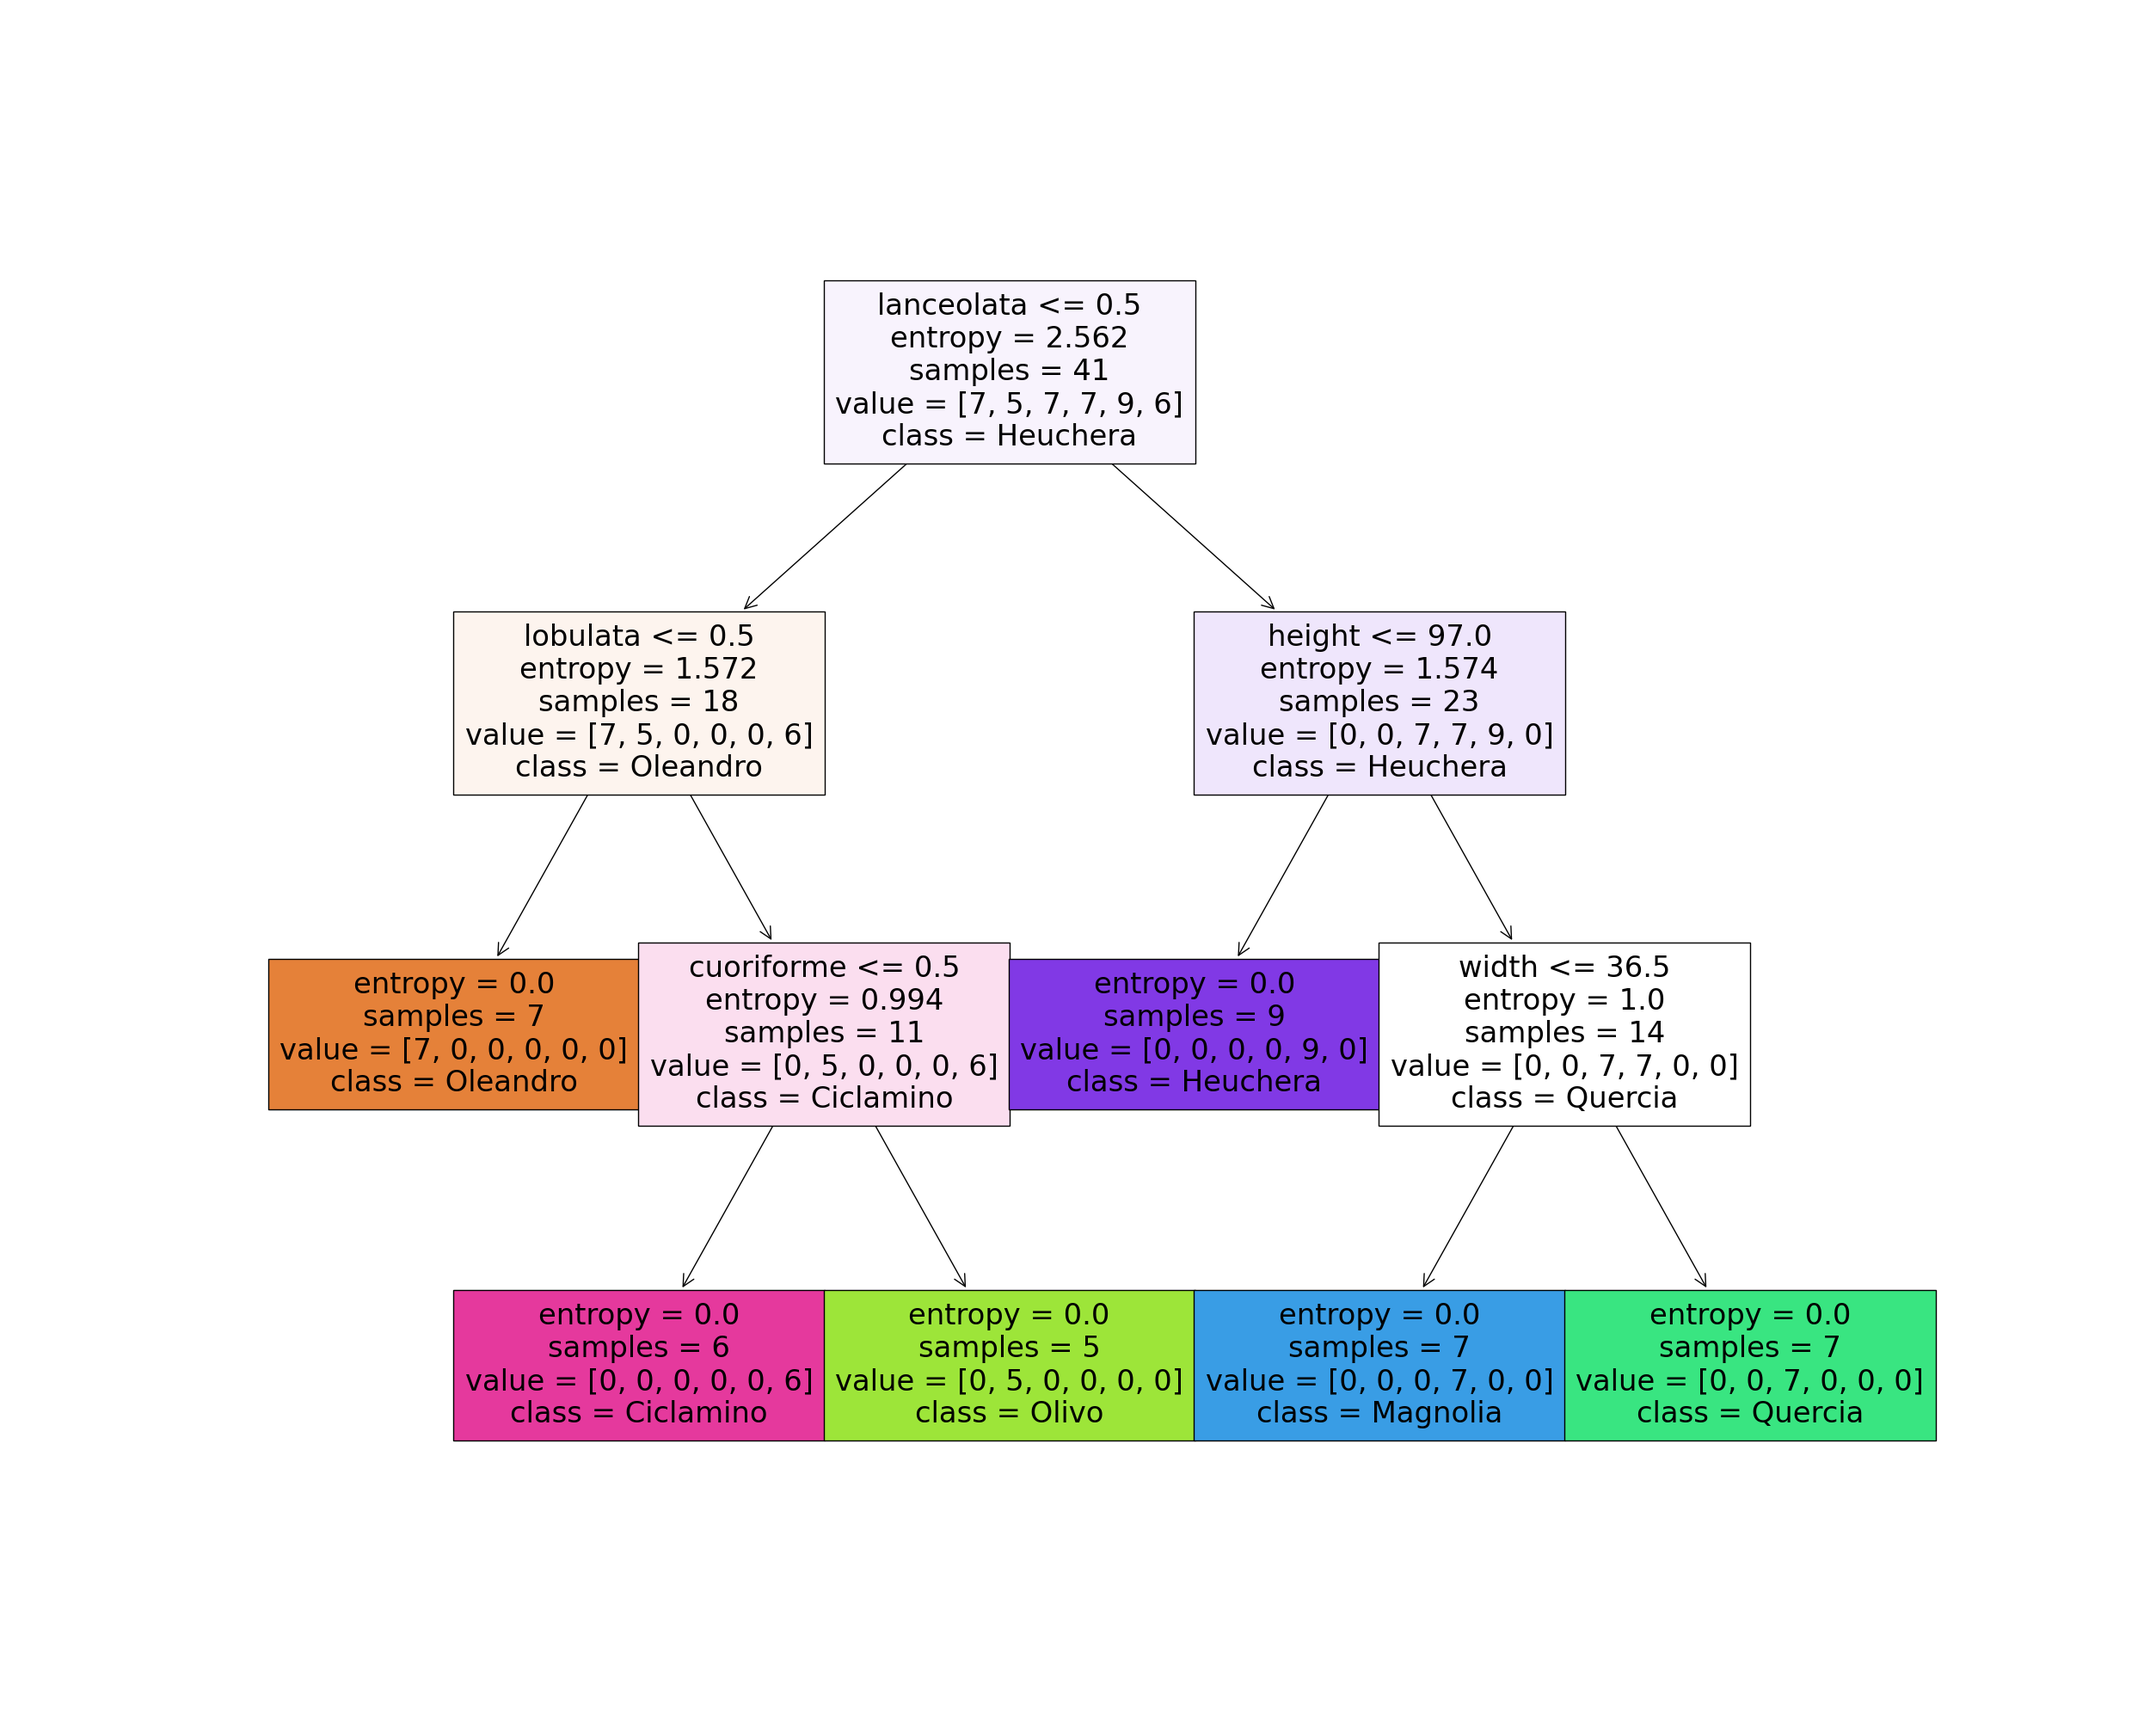
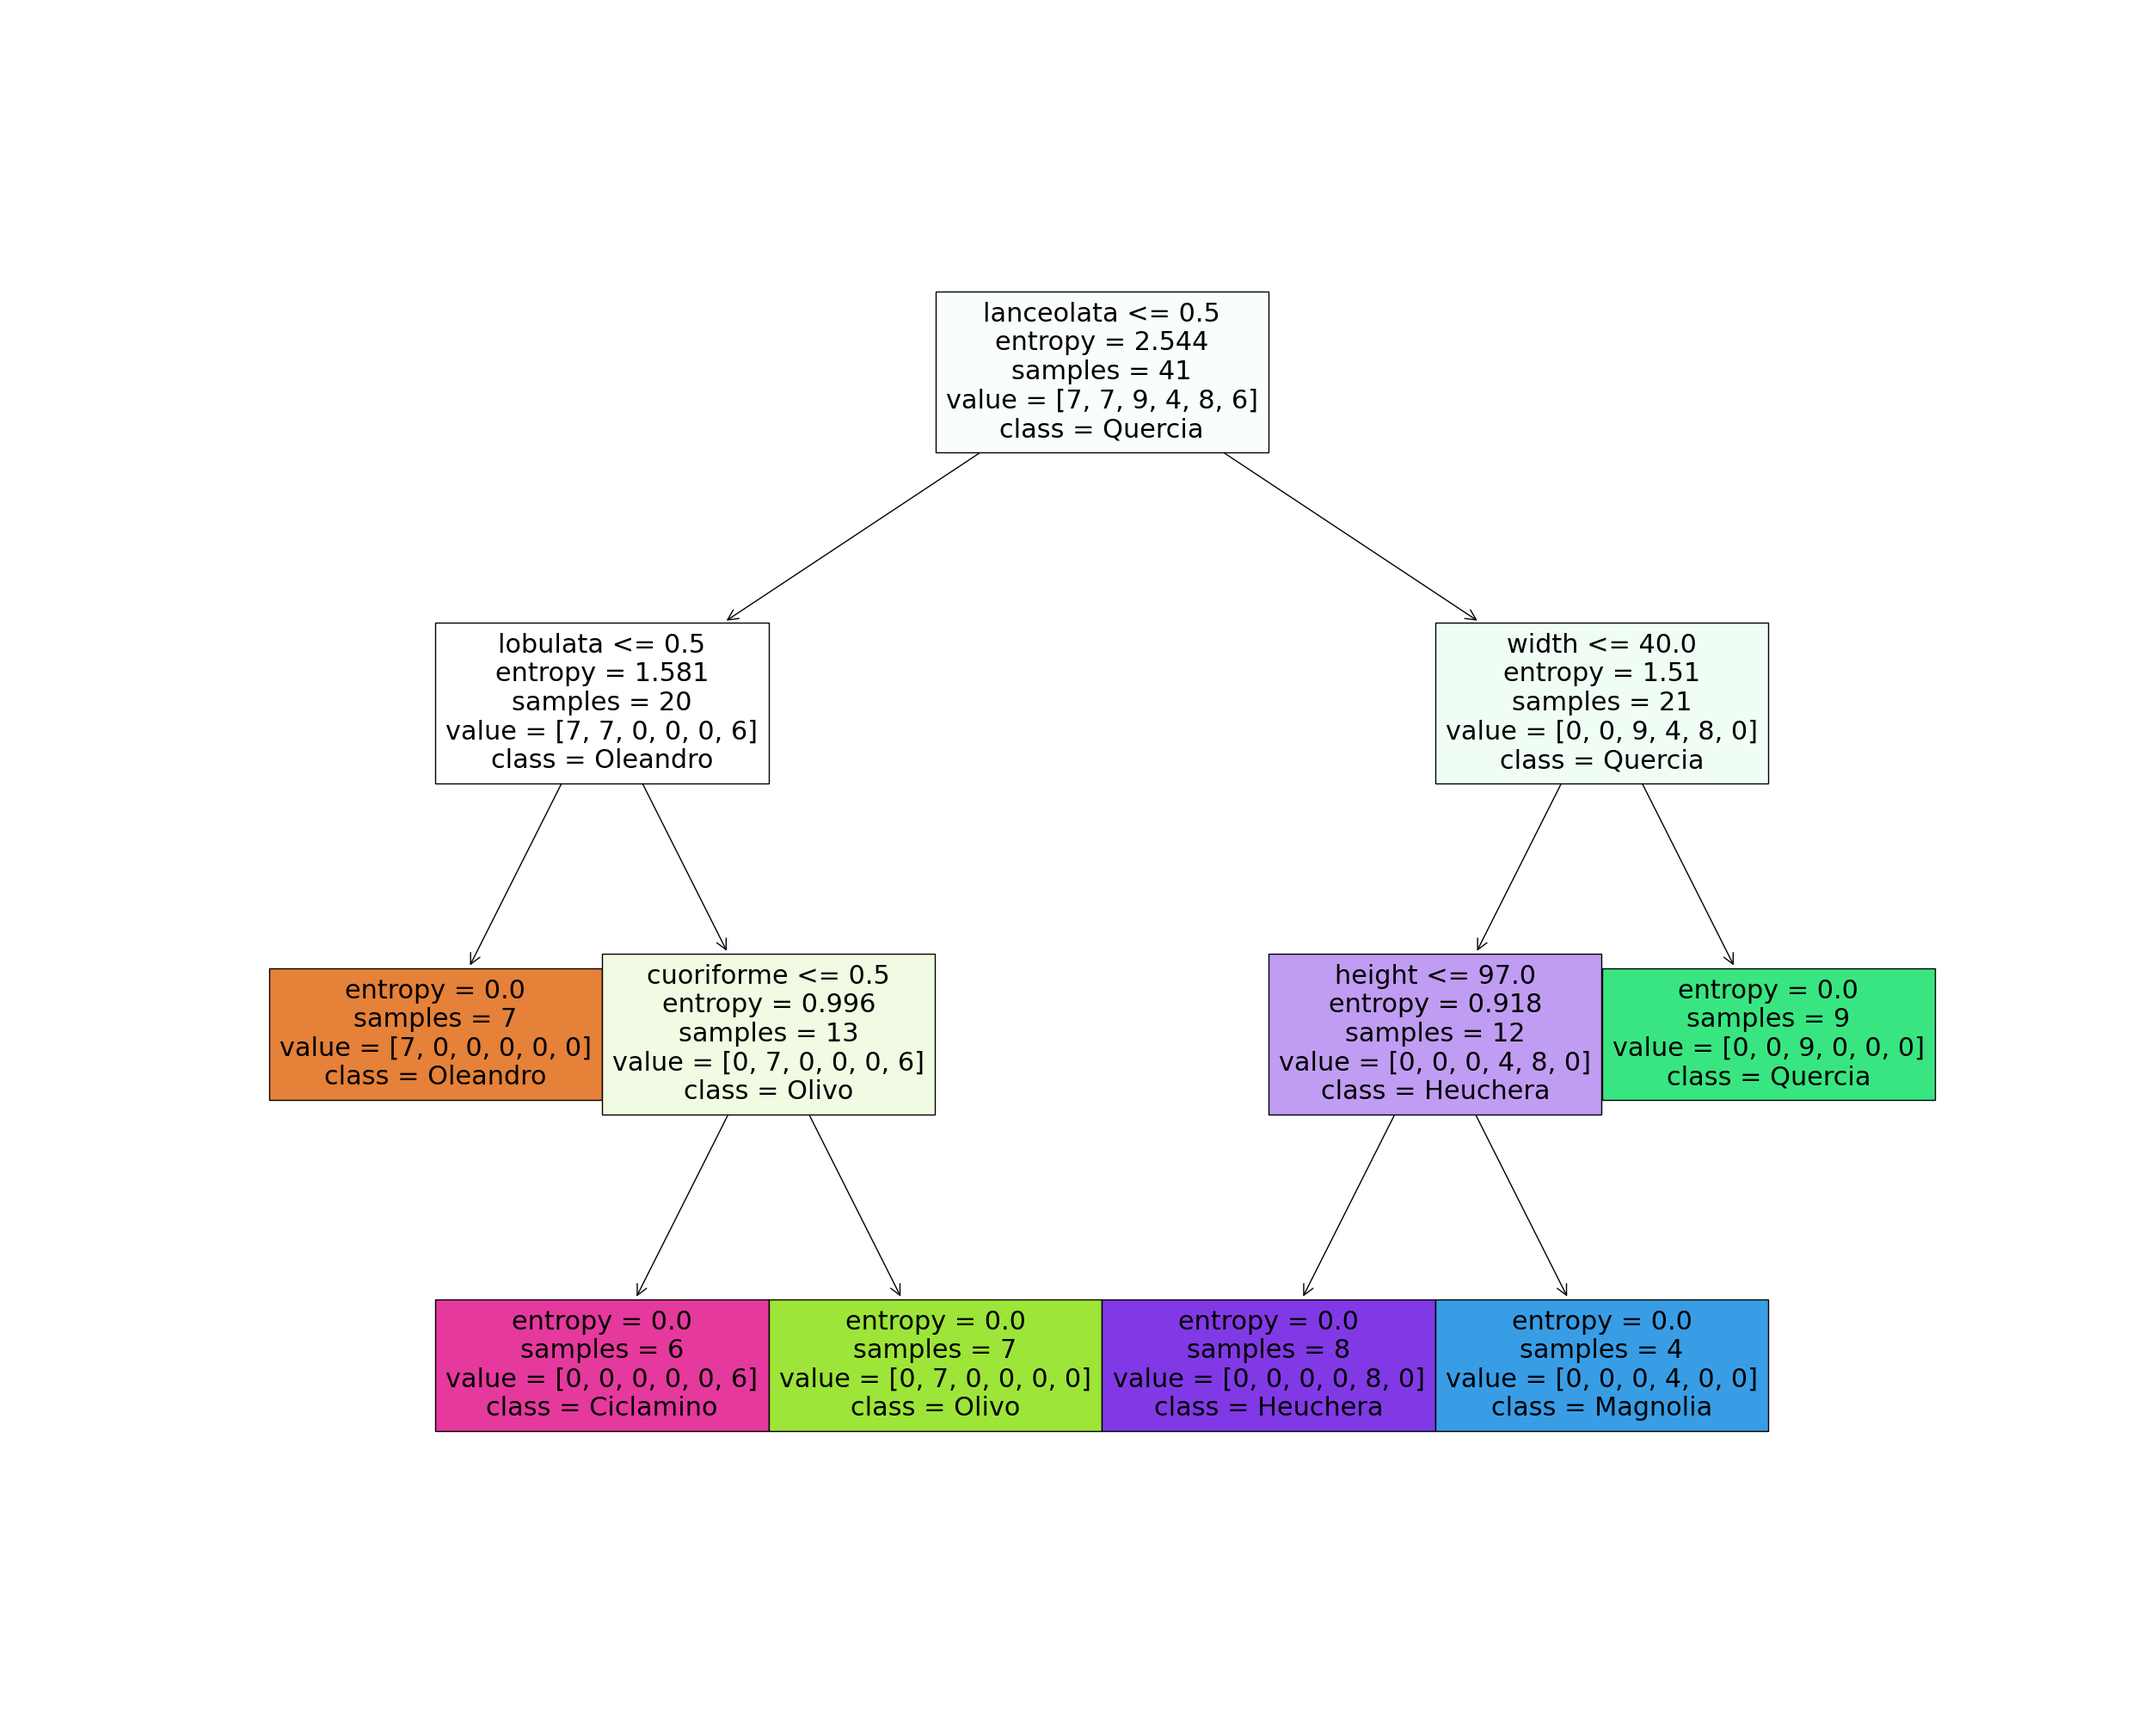
modified stuff

diff --git a/main.py b/main.py
@@ -19,8 +19,8 @@ class Point:
 selectedLeaf: tk.IntVar
 leafImage: tk.Label
 
-points: list[Point] = list()
-pointsByX: list[Point] = list()
+pointsY: list[Point] = list()
+pointsX: list[Point] = list()
 
 path: str = ""
 
@@ -67,22 +67,22 @@ def detectEdge(image):
     indices = np.where(edges != [0])
 
     for i in range(0, len(indices[0])):
-        points.append(Point(indices[1][i], indices[0][i], useful=True))
-        pointsByX.append(Point(indices[1][i], indices[0][i], useful=True))
+        pointsY.append(Point(indices[1][i], indices[0][i], useful=True))
+        pointsX.append(Point(indices[1][i], indices[0][i], useful=True))
 
-    pointsByX.sort(key=sortPointsByX)
+    pointsX.sort(key=sortPointsByX)
     return edges
 
 
 def detectLeaf(img):
     hsv = cv2.cvtColor(img, cv2.COLOR_RGB2HSV)
 
-    mask_red_brown = cv2.inRange(hsv, toHsvOpencvRange(5, 20, 7), toHsvOpencvRange(60, 80, 78))
-    mask_yellow_green = cv2.inRange(hsv, toHsvOpencvRange(20, 4, 15), toHsvOpencvRange(172, 100, 85))
-    mask_grey = cv2.inRange(hsv, toHsvOpencvRange(0, 0, 15), toHsvOpencvRange(360, 15, 30))
+    maskRedBrown = cv2.inRange(hsv, toHsvOpencvRange(5, 20, 7), toHsvOpencvRange(60, 80, 78))
+    maskYellowGreen = cv2.inRange(hsv, toHsvOpencvRange(20, 4, 15), toHsvOpencvRange(172, 100, 85))
+    maskGrey = cv2.inRange(hsv, toHsvOpencvRange(0, 0, 15), toHsvOpencvRange(360, 15, 30))
 
-    mask = cv2.bitwise_or(mask_yellow_green, mask_red_brown)
-    mask = cv2.bitwise_or(mask, mask_grey)
+    mask = cv2.bitwise_or(maskYellowGreen, maskRedBrown)
+    mask = cv2.bitwise_or(mask, maskGrey)
 
     res = cv2.bitwise_and(img, img, mask=mask)
     return res
@@ -90,8 +90,6 @@ def detectLeaf(img):
 
 def fillHoleImage(image):
     kernel = np.ones(20)
-    kernelSmall = np.ones(5)
-    # erode = cv2.erode(image, kernelSmall, iterations=1)
     dilate = cv2.dilate(image, kernel, 1)
     return cv2.erode(dilate, kernel, iterations=1)
 
@@ -104,7 +102,7 @@ def findMinMax(image):
     minY = image.shape[1]
     maxY = 0
 
-    for p in points:
+    for p in pointsY:
         if p.y > maxY:
             maxY = p.y
 
@@ -161,25 +159,25 @@ def equalizeHistogram(image):
 
 def printBorder(image):
     img = image
-    for p in points:
-        img = cv2.circle(img, (p.x, p.y), 3, (255, 0, 230), -1)
+    for p in pointsX:
+        img = cv2.circle(img, (p.x, p.y), 3, (255, 0, 255), -1)
 
     return img
 
 
 def filterUsefulPoints():
     # Non consideriamo i punti attaccati
-    for i in range(0, len(points)):
-        if i < len(points) - 1:
-            if (points[i].useful and points[i + 1].useful and points[i].y == points[i + 1].y) and (
-                    points[i + 1].x - points[i].x < 2):
-                points[i].useful = False
+    for i in range(0, len(pointsY)):
+        if i < len(pointsY) - 1:
+            if (pointsY[i].useful and pointsY[i + 1].useful and pointsY[i].y == pointsY[i + 1].y) and (
+                    pointsY[i + 1].x - pointsY[i].x < 2):
+                pointsY[i].useful = False
 
-    for i in range(0, len(pointsByX)):
-        if i < len(pointsByX) - 1:
-            if (pointsByX[i].useful and pointsByX[i + 1].useful and pointsByX[i].x == pointsByX[i + 1].x) and (
-                    pointsByX[i + 1].y - pointsByX[i].y < 2):
-                pointsByX[i].useful = False
+    for i in range(0, len(pointsX)):
+        if i < len(pointsX) - 1:
+            if (pointsX[i].useful and pointsX[i + 1].useful and pointsX[i].x == pointsX[i + 1].x) and (
+                    pointsX[i + 1].y - pointsX[i].y < 2):
+                pointsX[i].useful = False
 
 
 # ------------------------------------------------------------------
@@ -189,7 +187,7 @@ def checkLobulate(leafWidth):
     counterSX = 0
     innerCounter = 0
     oldValue = 0
-    for p in pointsByX:
+    for p in pointsX:
         if p.x < int(leafWidth / 2) and p.useful:  # consideriamo la metà SX
             if oldValue != p.x:
                 if innerCounter >= 4:
@@ -202,7 +200,7 @@ def checkLobulate(leafWidth):
     counterDX = 0
     innerCounter = 0
     oldValue = 0
-    for p in pointsByX:
+    for p in pointsX:
         if p.x > int(leafWidth / 2) and p.useful:  # consideriamo la metà DX
             if oldValue != p.x:
                 if innerCounter >= 4:
@@ -229,16 +227,14 @@ def checkLanceolata(minMax):
 
 
 def checkCuoriformi(minMax):
-    result = False
-    # maxY = pointsByX[len(pointsByX) - 1].y
-    # minY = maxY - (maxY / 4)  # CONSIDERIAMO SOLO L'ULTIMO QUARTO DI FOGLIA
+    
     minY = minMax[3] - (minMax[3] / 4)  # CONSIDERIAMO SOLO L'ULTIMO QUARTO DI FOGLIA
     print(minY, minMax[3])
 
     counter = 0
     innerCounter = 0
     oldValue = 0
-    for p in points:
+    for p in pointsY:
         if p.y > minY and p.useful:
             if oldValue != p.y:
                 if innerCounter >= 4:
@@ -274,7 +270,7 @@ def classifyLeaf(minMax):
 
 def selectLeaf():
     data = [[142, 21, "oleandro_2.jpg"], [70, 15, "olivo.jpg"], [176, 68, "magnolia_3.jpeg"],
-            [55, 57, "heuchera_2.jpeg"], [95, 51, "quercia_3.jpeg"], [101, 62, "quercia_4.jpg"], [40, 40, "ciclamino.jpeg"], ]
+            [55, 57, "heuchera.jpeg"], [95, 51, "quercia_3.jpeg"], [101, 62, "quercia_4.jpg"], [40, 40, "ciclamino.jpeg"], ]
 
     print("SELECTED LEAF", selectedLeaf.get())
     sel = selectedLeaf.get()
@@ -289,8 +285,8 @@ def selectLeaf():
 
 def startFlow():
     if selectedLeaf.get() > 0:
-        points.clear()
-        pointsByX.clear()
+        pointsY.clear()
+        pointsX.clear()
         print("START", selectedLeaf.get(), leafData.height, leafData.width, path)
         main()
     else:

diff --git a/decisionTree.py b/decisionTree.py
@@ -52,15 +52,15 @@ class DecisionTree:
         self.initializeTree()
 
     def initializeTree(self):
-        dataset = pd.read_csv("./leaf_dataset.csv", header=0, names=self.colNames)
+        dataset = pd.read_csv("./leaf_dataset_2.csv", header=0, names=self.colNames)
         dataset.head()
 
         X = dataset[self.featuresCol]
         y = dataset.name
 
-        X_train, X_test, y_train, y_test = train_test_split(X, y, test_size=0.3, random_state=1)
+        X_train, X_test, y_train, y_test = train_test_split(X, y, test_size=0.3, random_state=100)
 
-        self.decisionTree = DecisionTreeClassifier()
+        self.decisionTree = DecisionTreeClassifier(criterion="entropy")
         self.decisionTree = self.decisionTree.fit(X_train, y_train)
         y_pred = self.decisionTree.predict(X_test)
 
@@ -79,4 +79,4 @@ class DecisionTree:
                       feature_names=self.featuresCol,
                       class_names=self.classNames,
                       filled=True)
-        fig.savefig("decision_tree.png")
+        fig.savefig("decision_tree_2.png")
